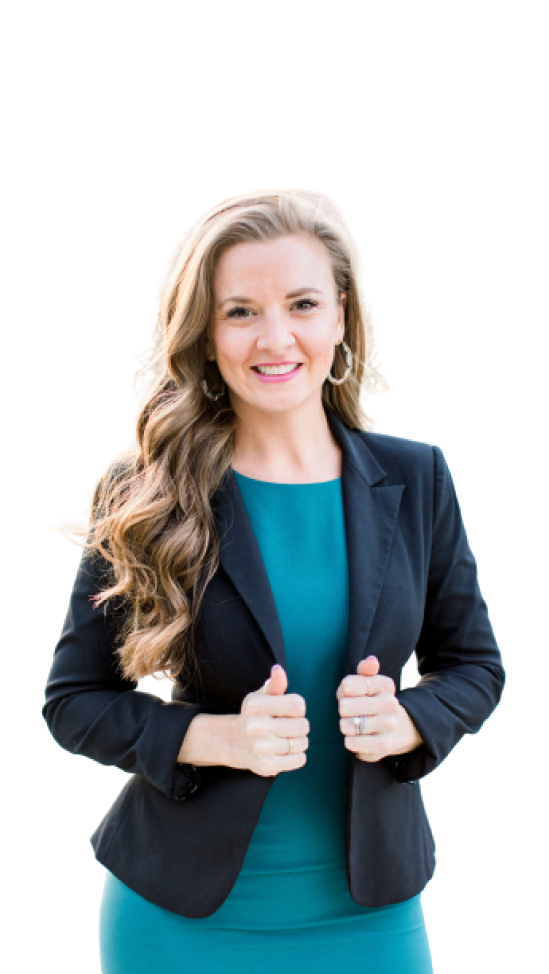
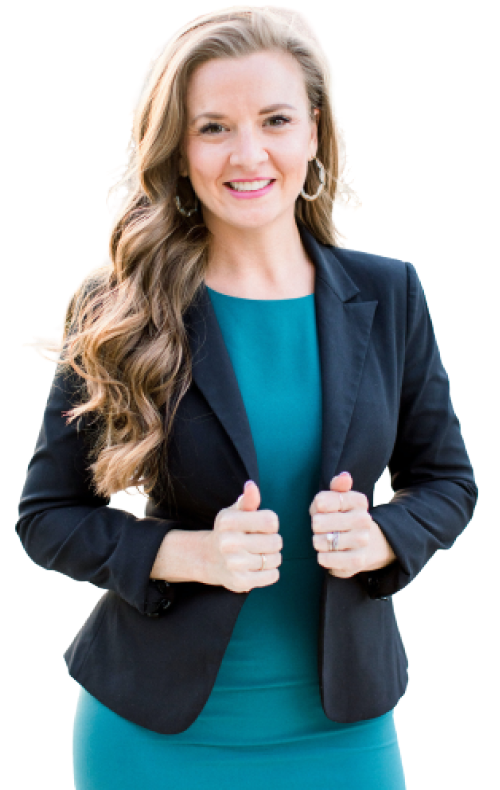
section your solution legal

diff --git a/src/output.css b/src/output.css
@@ -554,8 +554,44 @@ video {
   display: none;
 }
 
+.absolute {
+  position: absolute;
+}
+
+.relative {
+  position: relative;
+}
+
+.right-\[0\] {
+  right: 0;
+}
+
+.right-\[50px\] {
+  right: 50px;
+}
+
+.right-\[80px\] {
+  right: 80px;
+}
+
+.z-0 {
+  z-index: 0;
+}
+
+.z-\[-1\] {
+  z-index: -1;
+}
+
 .m-auto {
   margin: auto;
+}
+
+.mt-\[20px\] {
+  margin-top: 20px;
+}
+
+.mt-\[35px\] {
+  margin-top: 35px;
 }
 
 .flex {
@@ -566,8 +602,20 @@ video {
   display: none;
 }
 
+.w-\[50\%\] {
+  width: 50%;
+}
+
 .max-w-\[1200px\] {
   max-width: 1200px;
+}
+
+.flex-col {
+  flex-direction: column;
+}
+
+.flex-col-reverse {
+  flex-direction: column-reverse;
 }
 
 .items-center {
@@ -582,32 +630,72 @@ video {
   gap: 12px;
 }
 
-.gap-\[200px\] {
-  gap: 200px;
+.gap-\[15px\] {
+  gap: 15px;
+}
+
+.gap-\[20px\] {
+  gap: 20px;
+}
+
+.gap-\[50px\] {
+  gap: 50px;
 }
 
 .gap-\[60px\] {
   gap: 60px;
 }
 
-.p-\[20px_0px\] {
-  padding: 20px 0px;
+.gap-\[80px\] {
+  gap: 80px;
 }
 
-.p-\[20px_10px\] {
-  padding: 20px 10px;
+.rounded-lg {
+  border-radius: 0.5rem;
 }
 
-.p-\[_10px\] {
-  padding: 10px;
+.rounded-xl {
+  border-radius: 0.75rem;
 }
 
-.p-\[1px\] {
-  padding: 1px;
+.bg-\[\#094B72\] {
+  --tw-bg-opacity: 1;
+  background-color: rgb(9 75 114 / var(--tw-bg-opacity, 1));
+}
+
+.bg-\[\#E7F6FF\] {
+  --tw-bg-opacity: 1;
+  background-color: rgb(231 246 255 / var(--tw-bg-opacity, 1));
 }
 
 .p-\[14px\] {
   padding: 14px;
+}
+
+.p-\[3px_20px\] {
+  padding: 3px 20px;
+}
+
+.p-\[6px_12px\] {
+  padding: 6px 12px;
+}
+
+.px-\[100px\] {
+  padding-left: 100px;
+  padding-right: 100px;
+}
+
+.py-\[10px\] {
+  padding-top: 10px;
+  padding-bottom: 10px;
+}
+
+.text-center {
+  text-align: center;
+}
+
+.text-\[12px\] {
+  font-size: 12px;
 }
 
 .text-\[14px\] {
@@ -618,8 +706,30 @@ video {
   font-size: 18px;
 }
 
+.text-\[34px\] {
+  font-size: 34px;
+}
+
+.font-\[700\] {
+  font-weight: 700;
+}
+
 .uppercase {
   text-transform: uppercase;
+}
+
+.tracking-\[2px\] {
+  letter-spacing: 2px;
+}
+
+.text-\[\#094B72\] {
+  --tw-text-opacity: 1;
+  color: rgb(9 75 114 / var(--tw-text-opacity, 1));
+}
+
+.text-\[\#193E6C\] {
+  --tw-text-opacity: 1;
+  color: rgb(25 62 108 / var(--tw-text-opacity, 1));
 }
 
 .text-\[\#2D2F30\] {
@@ -627,7 +737,26 @@ video {
   color: rgb(45 47 48 / var(--tw-text-opacity, 1));
 }
 
+.text-\[\#4F4F4F\] {
+  --tw-text-opacity: 1;
+  color: rgb(79 79 79 / var(--tw-text-opacity, 1));
+}
+
+.text-\[\#848484\] {
+  --tw-text-opacity: 1;
+  color: rgb(132 132 132 / var(--tw-text-opacity, 1));
+}
+
+.text-\[\#fff\] {
+  --tw-text-opacity: 1;
+  color: rgb(255 255 255 / var(--tw-text-opacity, 1));
+}
+
 @media (min-width: 768px) {
+  .md\:mt-\[50px\] {
+    margin-top: 50px;
+  }
+
   .md\:block {
     display: block;
   }
@@ -640,6 +769,22 @@ video {
     display: none;
   }
 
+  .md\:w-\[35\%\] {
+    width: 35%;
+  }
+
+  .md\:w-\[50\%\] {
+    width: 50%;
+  }
+
+  .md\:flex-row {
+    flex-direction: row;
+  }
+
+  .md\:items-start {
+    align-items: flex-start;
+  }
+
   .md\:items-center {
     align-items: center;
   }
@@ -648,21 +793,71 @@ video {
     justify-content: space-between;
   }
 
-  .md\:gap-\[200px\] {
-    gap: 200px;
-  }
-
-  .md\:gap-\[100px\] {
-    gap: 100px;
+  .md\:gap-\[30px\] {
+    gap: 30px;
   }
 
   .md\:gap-\[50px\] {
     gap: 50px;
   }
+
+  .md\:px-\[40px\] {
+    padding-left: 40px;
+    padding-right: 40px;
+  }
+
+  .md\:py-\[20px\] {
+    padding-top: 20px;
+    padding-bottom: 20px;
+  }
+
+  .md\:text-start {
+    text-align: start;
+  }
+
+  .md\:text-\[16px\] {
+    font-size: 16px;
+  }
+
+  .md\:text-\[22px\] {
+    font-size: 22px;
+  }
+
+  .md\:text-\[24px\] {
+    font-size: 24px;
+  }
+
+  .md\:text-\[45px\] {
+    font-size: 45px;
+  }
+
+  .md\:leading-\[85px\] {
+    line-height: 85px;
+  }
 }
 
 @media (min-width: 1024px) {
+  .lg\:mt-\[100px\] {
+    margin-top: 100px;
+  }
+
+  .lg\:mt-\[120px\] {
+    margin-top: 120px;
+  }
+
+  .lg\:block {
+    display: block;
+  }
+
   .lg\:gap-\[200px\] {
     gap: 200px;
+  }
+
+  .lg\:text-\[22px\] {
+    font-size: 22px;
+  }
+
+  .lg\:text-\[70px\] {
+    font-size: 70px;
   }
 }

diff --git a/src/lawliet.html b/src/lawliet.html
@@ -8,6 +8,7 @@
     <title>Lawliet</title>
   </head>
   <body>
+    <!-- header navigatin -->
     <header
       class="flex justify-between items-center max-w-[1200px] m-auto p-[14px]"
     >
@@ -28,5 +29,68 @@
         </div>
       </div>
     </header>
+
+    <!-- section Your Solution Legal Consultacy -->
+    <section
+      class="p-[14px] flex flex-col-reverse items-center md:flex-row md:justify-between md:items-start max-w-[1200px] m-auto"
+    >
+      <div
+        class="text-center flex flex-col gap-[15px] items-center md:items-start md:w-[50%] md:mt-[50px] md:text-start lg:mt-[100px]"
+      >
+        <div
+          class="bg-[#E7F6FF] p-[6px_12px] rounded-xl mt-[20px] text-[12px] md:text-[16px] lg:text-[22px]"
+        >
+          <button class="text-[#fff] p-[3px_20px] bg-[#094B72] rounded-lg">
+            New
+          </button>
+          <span class="text-[#193E6C]"
+            >Stay connected to the upcoming & Recent jobs</span
+          >
+        </div>
+        <h1
+          class="text-[#094B72] font-[700] text-[34px] tracking-[2px] md:text-start md:text-[45px] md:leading-[85px] lg:text-[70px]"
+        >
+          Your Solution Legal Consultacy
+        </h1>
+        <p class="text-[14px] text-[#4F4F4F] md:text-[24px]">
+          We are here to help you take care of your legality with the best
+          service especially for you.
+        </p>
+        <button
+          type="button"
+          class="uppercase bg-[#094B72] text-[#fff] px-[100px] py-[10px] rounded-lg md:px-[40px] md:py-[20px]"
+        >
+          Get started
+        </button>
+
+        <div
+          class="mt-[35px] flex flex-col items-center gap-[20px] md:items-start md:gap-[30px]"
+        >
+          <p class="text-[#848484] text-[18px] md:text-[22px]">
+            Trusted by 10+ companies in indonesia
+          </p>
+
+          <div class="flex gap-[80px]">
+            <img src="./img/Airbnb Logo (1).png" alt="" />
+            <img src="./img/Layer 2.png" alt="" />
+          </div>
+          <div class="flex gap-[50px]">
+            <img src="./img/Microsoft Logo (1).png" alt="" />
+            <img src="./img/Google Logo (1).png" alt="" />
+          </div>
+        </div>
+      </div>
+      <img
+        src="./img/woman_img.png"
+        alt=""
+        class="w-[50%] md:w-[35%] md:mt-[50px] lg:mt-[120px]"
+      />
+      <img
+        src="./img/absolute_shar.png"
+        width="650px"
+        alt=""
+        class="absolute right-[80px] z-[-1] hidden lg:block"
+      />
+    </section>
   </body>
 </html>
